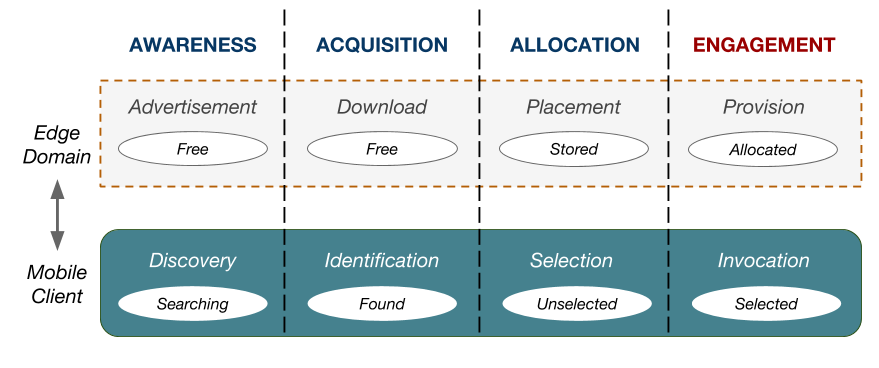
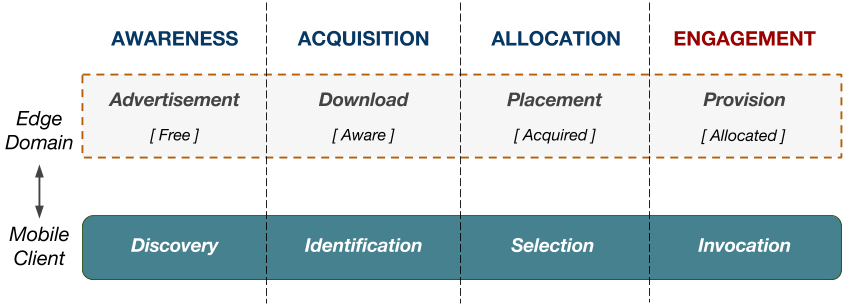
update on the A3-E main figures

diff --git a/sections/proposal.tex b/sections/proposal.tex
@@ -1,4 +1,4 @@
-\section{Proposal}
+\section{Proposal}\label{sec:proposal}
 
 \subsection{Requirements}
 
@@ -35,7 +35,7 @@ In addition to the client participation in a edge-or-edge kind of decision, ther
 As mobile clients can enter or exit a given area, the less time a mobile client remains connected to a given edge server, the lower the chances of loosing connection before it is is still processing that client's request. Thus, if services are not currently available at local edge servers, clients should perform direct requests to the cloud and bypass any interaction with edge components. Fig. illustrates such scenario.
 
 \begin{figure}
-  \includegraphics[width=0.6\textwidth]{figs/domain-selection.png}
+  \includegraphics[width=0.7\textwidth]{figs/domain-selection.png}
   \caption{Two independent edge servers in range of communication with a client, which is responsible for choosing among one of these or the cloud; direct requests to the cloud eliminate the dependency with intermediary edge servers when they are unavailable}
   \label{fig:domain-selection}
 \end{figure}
@@ -105,11 +105,27 @@ From this point on, the term edge domain is used to abstract whatever computatio
 
 \subsubsection{A3-E: Phases}
 
-\begin{figure}
-  \includegraphics[width=0.9\textwidth]{figs/A3-E.png}
-  \caption{Different phases of the A3-E model; phases are delimited by vertical lines and the main activities by inner labels in both clients and domains; labeled oval shapes represent the respective states of both sides at the end of each phase}
-  \label{fig:A3-E}
+\begin{figure}[htbp]
+	\centering
+	\captionsetup[subfigure]{width=\textwidth}
+	\subfloat[Different phases of the A3-E model; phases are delimited by vertical lines and the main activities by inner labels in both clients and domains; labeled oval shapes represent the respective states of both sides at the end of each phase.\label{fig:cloud-to-edge}]{ \includegraphics[width=0.95\textwidth]{figs/A3-E.png}}\hfill
+	
+	\subfloat[Different states of a given edge domain with respect to a given application; the transitions between awareness, acquisition, and allocation are guarded by policies that may vary according to the type of application and to the type of edge infrastructure\label{fig:mobile-to-edge}] {\includegraphics[width=0.75\textwidth]{figs/A3-E-states.png}}\hfill
+	\caption{The A3-E Model} \label{fig:1}
 \end{figure}
+
+
+%\begin{figure}
+%  \includegraphics[width=0.9\textwidth]{figs/A3-E.png}
+%  \caption{Different phases of the A3-E model; phases are delimited by vertical lines and the main activities by inner labels in both clients and domains; labeled oval shapes represent the respective states of both sides at the end of each phase}
+%  \label{fig:A3-E}
+%\end{figure}
+%
+%\begin{figure}
+%  \includegraphics[width=0.95\textwidth]{figs/A3-E-states.png}
+%  \caption{Different states of a given edge domain with respect to a given application; the transitions between awareness, acquisition, and allocation are guarded by policies that may vary according to the type of application and to the type of edge infrastructure}
+%  \label{fig:states}
+%\end{figure}
 
 The diagram in Fig. 3 captures the different phases of the interaction between a mobile client running a given application that first contacts a given edge domain. 
 	
@@ -124,12 +140,6 @@ The acquisition of application components does not make them ready to be execute
 Finally, once the allocation phase is finished, the domain is ready to perform the computation required by the application. For instance, following a request-response protocol, clients can fire requisitions to that domain. These activities are part of the engagement phase.
 
 The separation of phases emphasizes not only the different concerns involved, but also the distinction between the moments they occur. The transition among phases may either be sequential, meaning that one phase starts as soon the previous finishes, or conditional, meaning that additional condition(s) must be met before the next phase can start. 	
-
-\begin{figure}
-  \includegraphics[width=0.75\textwidth]{figs/states.png}
-  \caption{Different states of a given edge domain with respect to a given application; the transitions between awareness, acquisition, and allocation are guarded by policies that may vary according to the type of application and to the type of edge infrastructure}
-  \label{fig:states}
-\end{figure}
 
 Fig. x presents the possible transitions among the three A phases of an edge domain regarding a given application. The awareness-acquisition transition is modelled by three alternative policies: 
 

diff --git a/sections/introduction.tex b/sections/introduction.tex
@@ -100,7 +100,7 @@ As has been demonstrated with experiments, client applications can rely on dynam
 
 \subsection{Paper Organization}
 
-This paper is organized as follows. Section~\ref{sec:background} provides a brief background on the main topics and concepts used by this work. Section~\ref{sec:proposal} provides the 
+The rest of this paper is organized as follows. Section~\ref{sec:background} provides a brief background on the main topics and concepts used by this work. Section~\ref{sec:proposal} introduces A3-E model. Section~\ref{sec:evaluation} reports on the experiments performed to evaluate our proposal with an augment reality application. Finally, Section~\ref{sec:conclusion} concludes this paper with our conclusions and future works.
 
 
 

diff --git a/sections/conclusions.tex b/sections/conclusions.tex
@@ -1,1 +1,1 @@
-\section{Conclusions and Future Works}
+\section{Conclusions and Future Works}\label{sec:conclusions}

diff --git a/sections/background.tex b/sections/background.tex
@@ -1,4 +1,4 @@
-\section{Background}
+\section{Background}\label{sec:background}
 
 \subsection{Cloud Computing}
 

diff --git a/sections/evaluation.tex b/sections/evaluation.tex
@@ -1,1 +1,1 @@
-\section{Evaluation}
+\section{Evaluation}\label{sec:evaluation}
